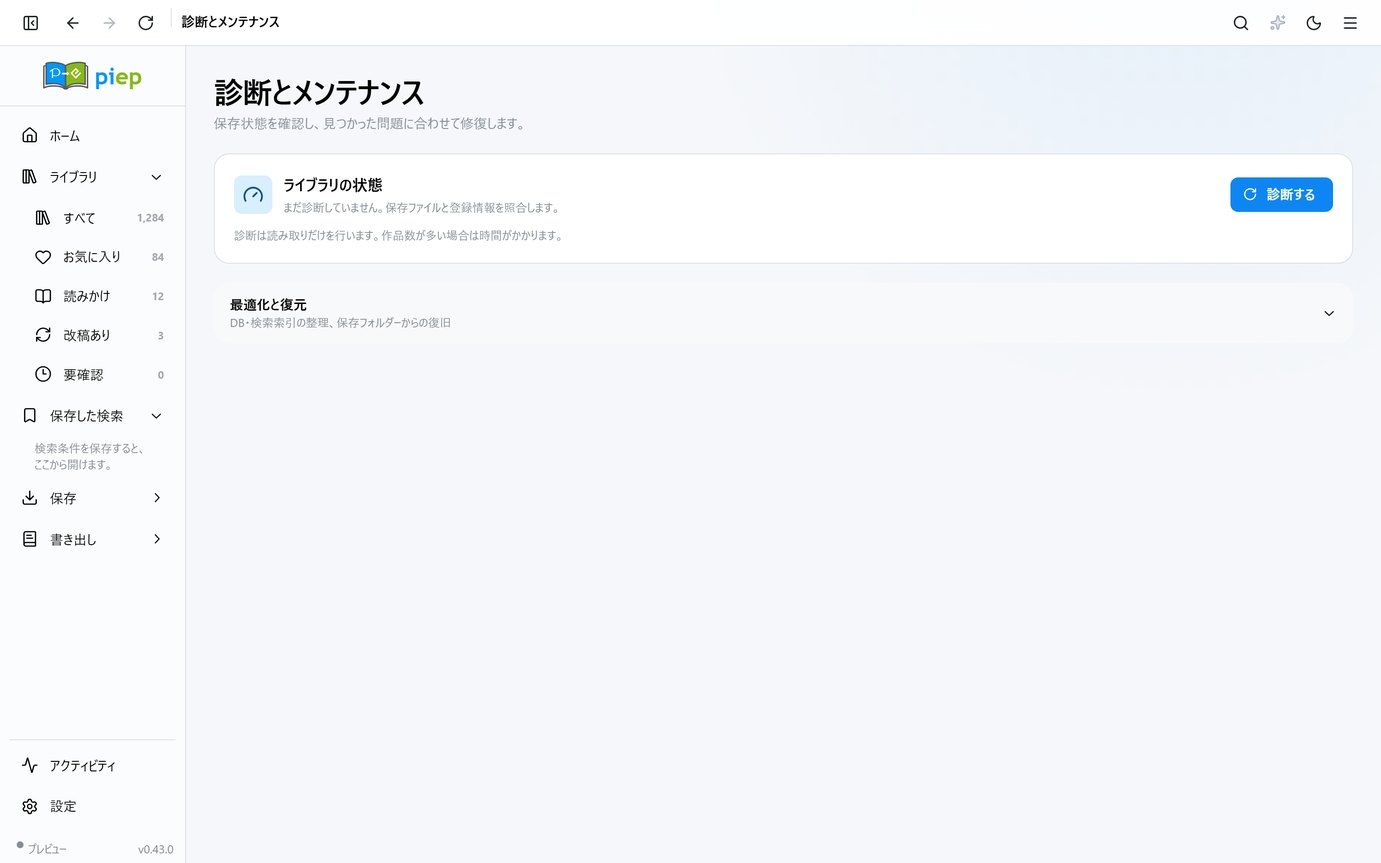
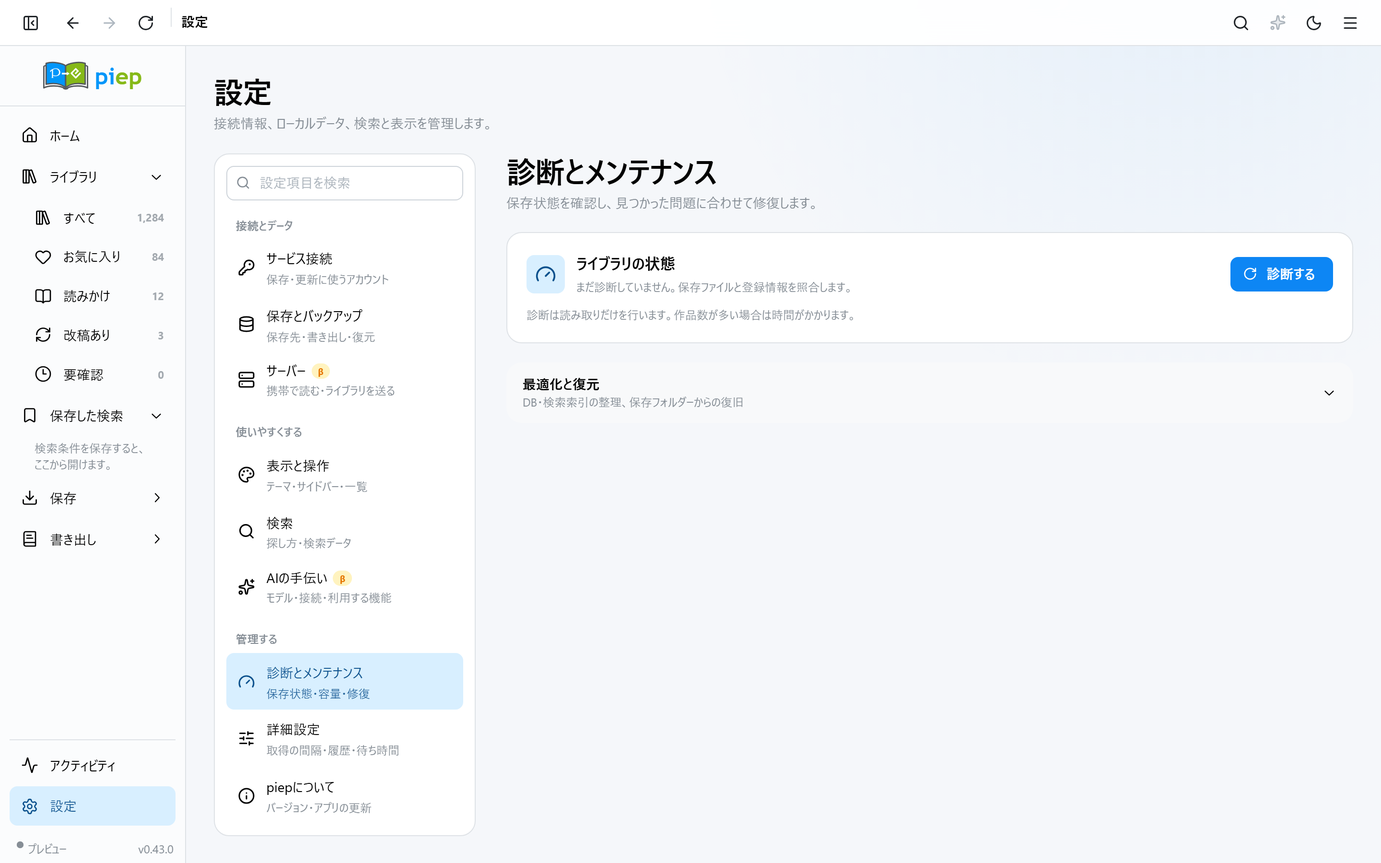
診断の画面は設定の中だけにし、更新の設定を読むだけの口を消す
同じ診断を独立した道と設定の中の二通りで出し、管理画面は状態の口から
読める値を別の GET でも返していた。利用者の了承を得て一つにまとめた。
視覚の基準と案内書の画像は設定の中の診断で撮る。

diff --git a/src/features/diagnostics/DiagnosticsPage.tsx b/src/features/diagnostics/DiagnosticsPage.tsx
@@ -25,7 +25,6 @@ import { Icons, IconSize } from "@/lib/icons";
 import { ErrorState } from "@/components/AsyncState";
 import { JobProgress } from "@/components/JobProgress";
 import { PageHeader } from "@/components/PageHeader";
-import { RuntimeNotice } from "@/components/RuntimeNotice";
 import { useAppNavigate } from "@/app/router";
 import { requestOperationCancel, startOperation, type OperationController } from "@/features/jobs/operationJobs";
 import { errorMessage, formatBytes, formatNumber } from "@/lib/format";
@@ -146,7 +145,7 @@ function useElapsedSeconds(active: boolean, startedAt?: number) {
  * app's own housekeeping rather than about the works, so settings is where it
  * belongs - but the route stays valid for anything already pointing at it.
  */
-export default function DiagnosticsPage({ embedded = false, previewData = previewDiagnostics }: { embedded?: boolean; previewData?: LibraryDiagnostics } = {}) {
+export default function DiagnosticsPage({ previewData = previewDiagnostics }: { previewData?: LibraryDiagnostics } = {}) {
   const runtime = isTauriRuntime();
   const navigate = useAppNavigate();
   const queryClient = useQueryClient();
@@ -314,10 +313,9 @@ export default function DiagnosticsPage({ embedded = false, previewData = previe
   });
   };
 
-  return <div className={embedded ? "diagnostics-page" : "page page--contained diagnostics-page"}>
+  return <div className="diagnostics-page">
     <PageHeader title="診断とメンテナンス" description="保存状態を確認し、見つかった問題に合わせて修復します。" />
     {/* Settings already carries one at the top of the screen. */}
-    {!embedded && <RuntimeNotice />}
 
     {runtime && <ShelfDiagnosticsSection runtime={runtime} busy={profileRunning} />}
     {legacyView && <Card p="lg" mt="lg">

diff --git a/src/features/settings/SettingsPage.tsx b/src/features/settings/SettingsPage.tsx
@@ -349,7 +349,7 @@ export default function SettingsPage() {
           {section === "server" && <ServerSection runtime={runtime} />}
           {section === "search" && (index.isLoading ? <LoadingState label="検索インデックスを確認しています" /> : index.error ? <ErrorState error={index.error} retry={() => index.refetch()} /> : <SearchSection status={index.data} rebuild={rebuild} runtime={runtime} rebuilding={rebuildMutation.isPending || rebuild?.status === "running"} start={(includeSemantic) => startRebuild(includeSemantic)} cancel={() => { if (rebuildOperationRef.current) { void requestOperationCancel(rebuildOperationRef.current.id); return; } if (rebuild) reportJobAction(cancelSearchRebuildIndex(rebuild.jobId), "索引の作り直しを中止できません"); }} />)}
           {section === "assist" && <AssistSection />}
-          {section === "diagnostics" && <DiagnosticsPage embedded />}
+          {section === "diagnostics" && <DiagnosticsPage />}
           {section === "advanced" && <AdvancedSection />}
           {section === "appearance" && <AppearanceSection colorScheme={colorScheme} setColorScheme={setColorScheme} />}
           {section === "about" && <AboutSection runtime={runtime} />}

diff --git a/src/App.tsx b/src/App.tsx
@@ -29,7 +29,6 @@ const EpubPage = lazy(() => import("@/features/epub/EpubPage"));
 const TemplateStudioPage = lazy(() => import("@/features/epub/TemplateStudioPage"));
 const UpdatesPage = lazy(() => import("@/features/updates/UpdatesPage"));
 const OperationsPage = lazy(() => import("@/features/jobs/OperationsPage"));
-const DiagnosticsPage = lazy(() => import("@/features/diagnostics/DiagnosticsPage"));
 const SettingsPage = lazy(() => import("@/features/settings/SettingsPage"));
 
 function RouteFallback() {
@@ -51,7 +50,6 @@ function CurrentRoute() {
   if (pathname === "/epub/templates") return <TemplateStudioPage />;
   if (pathname === "/updates") return <UpdatesPage />;
   if (pathname === "/operations") return <OperationsPage />;
-  if (pathname === "/diagnostics") return <DiagnosticsPage />;
   if (pathname === "/settings") return <SettingsPage />;
   return <DashboardPage />;
 }

diff --git a/e2e/visual-regression.spec.ts b/e2e/visual-regression.spec.ts
@@ -129,7 +129,7 @@ test("phone collection list keeps metadata and actions inside each row", async (
 test("critical workspaces keep a stable layout", async ({ page }, testInfo) => {
   test.skip(!testInfo.project.name.endsWith("100dpi"), "Route matrix runs once per size/theme; DPI scaling is covered by the library shell matrix");
   const routes = [
-    ["diagnostics", "/#/diagnostics", "診断とメンテナンス"],
+    ["settings-diagnostics", "/#/settings?section=diagnostics", "診断とメンテナンス"],
     ["operations", "/#/operations", "操作履歴"],
     ["save", "/#/save/pixiv", "Webから保存"],
     ["reader", "/#/reader/101", "雨上がりの図書室で"],

diff --git a/src/app/AppFrame.tsx b/src/app/AppFrame.tsx
@@ -293,7 +293,6 @@ export function AppFrame({ children }: { children: ReactNode }) {
     if (location.pathname.startsWith("/epub")) return "EPUB";
     if (location.pathname.startsWith("/updates")) return "新作・改稿";
     if (location.pathname.startsWith("/operations")) return "操作履歴";
-    if (location.pathname.startsWith("/diagnostics")) return "診断とメンテナンス";
     if (location.pathname.startsWith("/settings")) return "設定";
     return "piep";
   }, [location.pathname]);

diff --git a/e2e/readme-shots.spec.ts b/e2e/readme-shots.spec.ts
@@ -31,7 +31,7 @@ const shots: ReadonlyArray<
   ["editor", "/#/editor/101", "雨上がりの図書室で", ["light"]],
   ["updates", "/#/updates", "新作・改稿", ["light"]],
   ["epub", "/#/epub", "EPUB書き出し", ["light"]],
-  ["diagnostics", "/#/diagnostics", "診断とメンテナンス", ["light"]],
+  ["diagnostics", "/#/settings?section=diagnostics", "診断とメンテナンス", ["light"]],
   ["settings", "/#/settings?section=appearance", "表示と操作", ["light"]],
 ];
 

diff --git a/src/features/diagnostics/ShelfDiagnostics.test.tsx b/src/features/diagnostics/ShelfDiagnostics.test.tsx
@@ -54,7 +54,7 @@ function view() {
     <MantineProvider>
       <ModalsProvider>
         <QueryClientProvider client={client}>
-          <AppRouter><DiagnosticsPage embedded /></AppRouter>
+          <AppRouter><DiagnosticsPage /></AppRouter>
         </QueryClientProvider>
       </ModalsProvider>
     </MantineProvider>,

diff --git a/src-tauri/src/server/http/admin_web.rs b/src-tauri/src/server/http/admin_web.rs
@@ -1148,18 +1148,6 @@ fn controller(ctx: &ServerContext) -> Result<&Arc<UpdateController>, ApiError> {
     ))
 }
 
-async fn get_update_settings(
-    State(ctx): State<Ctx>,
-    headers: AdminHeaders,
-) -> Result<Json<serde_json::Value>, ApiError> {
-    require_admin(&ctx, &headers)?;
-    let status = controller(&ctx)?.status();
-    Ok(Json(serde_json::json!({
-        "auto": status.auto,
-        "window": status.window,
-    })))
-}
-
 #[derive(Deserialize)]
 #[serde(rename_all = "camelCase", deny_unknown_fields)]
 struct UpdateSettingsRequest {
@@ -1627,10 +1615,7 @@ pub(super) fn api_routes() -> Router<Ctx> {
         .route("/api/admin/password", put(change_password))
         .route("/api/admin/sessions", get(list_sessions))
         .route("/api/admin/sessions/{id}", delete(end_session))
-        .route(
-            "/api/admin/settings/update",
-            get(get_update_settings).put(put_update_settings),
-        )
+        .route("/api/admin/settings/update", put(put_update_settings))
         .route("/api/admin/settings/server-name", put(put_server_name))
         .route("/api/admin/update/check", post(update_check))
         .route("/api/admin/update/history", get(update_history))

diff --git a/docs/audit/2026-11-25-features.md b/docs/audit/2026-11-25-features.md
@@ -251,31 +251,31 @@
 | HTTP | `PUT /api/admin/shelf/shipments/{id}/chunks/{chunk}` | `src-tauri/src/server/http.rs:308` | デスクトップの棚送信 → `src-tauri/src/server/shelf_send.rs:351` → `src-tauri/src/server/shelf_send.rs:121` | 正 異 重 並 中 端 | 別の口から（棚送信）（`src-tauri/src/server/shelf_send.rs:351`） | 確認済み |
 | HTTP | `POST /api/admin/shelf/shipments/{id}/commit` | `src-tauri/src/server/http.rs:314` | デスクトップの棚送信 → 確定要求 `src-tauri/src/server/shelf_send.rs:367` | 正 異 欠 中 端 | 別の口から（棚送信）（`src-tauri/src/server/shelf_send.rs:367`） | 確認済み |
 | HTTP | `PUT /api/admin/devices/{id}/shelf` | `src-tauri/src/server/http.rs:318` | デスクトップの端末別の棚の許可 → `src-tauri/src/server/desktop.rs:534` → `src-tauri/src/server/sync_send.rs:338` | 正 異 端 | 別の口から（棚の許可 IPC）（`src-tauri/src/server/desktop.rs:534`） | 確認済み |
-| HTTP | `POST /api/admin/tickets` | `src-tauri/src/server/http/admin_web.rs:1626` | デスクトップの管理画面を開く操作 → `src-tauri/src/server/desktop.rs:491` → `src-tauri/src/server/sync_send.rs:315` | 正 異 端 | 別の口から（管理リンク発行 IPC）（`src-tauri/src/server/desktop.rs:491`） | 確認済み |
-| HTTP | `PUT /api/admin/password` | `src-tauri/src/server/http/admin_web.rs:1627` | 管理画面 → `src/admin/pages/AccountPage.tsx:32` → `src/admin/api.ts:205` | 正 異 端 | 画面から（`src/admin/pages/AccountPage.tsx:32`） | 確認済み |
-| HTTP | `GET /api/admin/sessions` | `src-tauri/src/server/http/admin_web.rs:1628` | 管理画面のログイン一覧 → `src/admin/pages/AccountPage.tsx:96` → `src/admin/api.ts:206` | 正 異 欠 端 | 自動（ページ表示・30 秒ごと）（`src/admin/pages/AccountPage.tsx:96`） | 確認済み |
-| HTTP | `DELETE /api/admin/sessions/{id}` | `src-tauri/src/server/http/admin_web.rs:1629` | 管理画面 → `src/admin/pages/AccountPage.tsx:99` → `src/admin/api.ts:207` | 正 異 端 | 画面から（`src/admin/pages/AccountPage.tsx:99`） | 確認済み |
-| HTTP | `GET,PUT /api/admin/settings/update` | `src-tauri/src/server/http/admin_web.rs:1630` | PUT は管理画面 → `src/admin/pages/UpdatesPage.tsx:66` → `src/admin/api.ts:203`；GET は登録 `src-tauri/src/server/http/admin_web.rs:1631` と受信処理 `src-tauri/src/server/http/admin_web.rs:1151` まで。画面の読み取りは状態応答 `src/admin/pages/UpdatesPage.tsx:52` | 正 異 | 画面から（PUT、`src/admin/pages/UpdatesPage.tsx:66`） | 確認済み |
-| HTTP | `PUT /api/admin/settings/server-name` | `src-tauri/src/server/http/admin_web.rs:1634` | 管理画面 → `src/admin/pages/SettingsPage.tsx:19` → `src/admin/api.ts:204` | 正 異 | 画面から（`src/admin/pages/SettingsPage.tsx:19`） | 確認済み |
-| HTTP | `POST /api/admin/update/check` | `src-tauri/src/server/http/admin_web.rs:1635` | 管理画面 → `src/admin/pages/UpdatesPage.tsx:105` → `src/admin/api.ts:198`；デスクトップ → `src-tauri/src/server/desktop.rs:473` | 正 異 並 | 別の口から（管理画面・更新確認 IPC）（`src/admin/pages/UpdatesPage.tsx:105`） | 確認済み |
-| HTTP | `GET /api/admin/update/history` | `src-tauri/src/server/http/admin_web.rs:1636` | 管理画面 → `src/admin/pages/UpdatesPage.tsx:98` → `src/admin/api.ts:202` | 正 異 欠 再 | 画面から（`src/admin/pages/UpdatesPage.tsx:98`） | 確認済み |
-| HTTP | `POST /api/admin/update/retry` | `src-tauri/src/server/http/admin_web.rs:1637` | 管理画面 → `src/admin/pages/UpdatesPage.tsx:124` → `src/admin/api.ts:200` | 正 異 復 | 画面から（`src/admin/pages/UpdatesPage.tsx:124`） | 確認済み |
-| HTTP | `POST /api/admin/update/rollback` | `src-tauri/src/server/http/admin_web.rs:1638` | 管理画面 → `src/admin/pages/UpdatesPage.tsx:138` → `src/admin/api.ts:201` | 正 異 再 復 | 画面から（`src/admin/pages/UpdatesPage.tsx:138`） | 確認済み |
-| HTTP | `GET /api/admin/audit` | `src-tauri/src/server/http/admin_web.rs:1639` | 管理画面の記録 → `src/admin/pages/RecordsPage.tsx:38` → `src/admin/api.ts:221`；概要 → `src/admin/pages/OverviewPage.tsx:19` | 正 異 欠 | 画面から（`src/admin/pages/RecordsPage.tsx:38`） | 確認済み |
-| HTTP | `GET /api/admin/storage` | `src-tauri/src/server/http/admin_web.rs:1640` | 管理画面の棚 → `src/admin/pages/LibraryPage.tsx:9` → `src/admin/api.ts:211`；概要 → `src/admin/pages/OverviewPage.tsx:18` | 正 異 欠 | 画面から（`src/admin/pages/LibraryPage.tsx:9`） | 確認済み |
-| HTTP | `GET,PUT /api/admin/connection` | `src-tauri/src/server/http/admin_web.rs:1641` | 管理画面 → 取得 `src/admin/pages/SettingsPage.tsx:285` → `src/admin/api.ts:212` ／保存 `src/admin/pages/SettingsPage.tsx:147` → `src/admin/api.ts:213` | 正 異 再 復 | 画面から（`src/admin/pages/SettingsPage.tsx:285`） | 確認済み |
-| HTTP | `POST /api/admin/restart` | `src-tauri/src/server/http/admin_web.rs:1642` | 管理画面 → `src/admin/pages/SettingsPage.tsx:139` → `src/admin/api.ts:214` | 正 異 再 復 | 画面から（`src/admin/pages/SettingsPage.tsx:139`） | 確認済み |
-| HTTP | `POST /api/admin/web/reauth` | `src-tauri/src/server/http/admin_web.rs:1648` | 管理画面の操作前の再認証 → `src/admin/shared.tsx:131` → `src/admin/api.ts:195` | 正 異 | 画面から（`src/admin/shared.tsx:131`） | 確認済み |
-| HTTP | `POST /api/admin/web/disable` | `src-tauri/src/server/http/admin_web.rs:1649` | 管理画面 → `src/admin/pages/SettingsPage.tsx:300` → `src/admin/api.ts:196` | 正 異 端 | 画面から（`src/admin/pages/SettingsPage.tsx:300`） | 確認済み |
-| HTTP | `GET /admin` | `src-tauri/src/server/http/admin_web.rs:1656` | ブラウザーで末尾のスラッシュなしの URL を直接開く → `src-tauri/src/server/http/admin_web.rs:1656` → /admin/ | 正 | 別の口から（ブラウザーの URL 入力）（`src-tauri/src/server/http/admin_web.rs:1656`） | 確認済み |
-| HTTP | `GET /admin/` | `src-tauri/src/server/http/admin_web.rs:1657` | デスクトップの管理リンク `src-tauri/src/server/desktop.rs:498` または CLI の初回設定リンク `src-tauri/src/server/standalone.rs:853` → ブラウザー → `src-tauri/src/server/http/admin_web.rs:1612` | 正 異 欠 | 別の口から（管理リンクをブラウザーで開く）（`src-tauri/src/server/desktop.rs:498`） | 確認済み |
-| HTTP | `GET /admin/{*path}` | `src-tauri/src/server/http/admin_web.rs:1658` | 管理画面の HTML を開いたブラウザー → `vite.admin.config.ts:10` の資産 URL → `src-tauri/src/server/http/admin_web.rs:1616` | 正 異 欠 | 自動（ブラウザーの管理画面資産読み込み）（`vite.admin.config.ts:10`） | 確認済み |
-| HTTP | `GET /api/admin/web/state` | `src-tauri/src/server/http/admin_web.rs:1659` | 管理画面の入口 → `src/admin/AdminApp.tsx:169` → `src/admin/api.ts:189` | 正 異 欠 | 自動（管理画面を開いたとき）（`src/admin/AdminApp.tsx:169`） | 確認済み |
-| HTTP | `POST /api/admin/web/login` | `src-tauri/src/server/http/admin_web.rs:1660` | 管理画面 → `src/admin/Entry.tsx:129` → `src/admin/api.ts:190` | 正 異 重 | 画面から（`src/admin/Entry.tsx:129`） | 確認済み |
-| HTTP | `POST /api/admin/web/ticket-info` | `src-tauri/src/server/http/admin_web.rs:1661` | 管理リンクの券を検査 → `src/admin/Entry.tsx:210` → `src/admin/api.ts:191` | 正 異 欠 | 自動（管理リンクを開いたとき）（`src/admin/Entry.tsx:210`） | 確認済み |
-| HTTP | `POST /api/admin/web/ticket` | `src-tauri/src/server/http/admin_web.rs:1662` | 管理リンクからのログイン → `src/admin/Entry.tsx:216` → `src/admin/api.ts:192` | 正 異 重 | 自動（券確認後）（`src/admin/Entry.tsx:216`） | 確認済み |
-| HTTP | `POST /api/admin/web/setup` | `src-tauri/src/server/http/admin_web.rs:1663` | 管理画面の初回設定・再設定 → `src/admin/Entry.tsx:75` → `src/admin/api.ts:193` | 正 異 重 端 | 画面から（`src/admin/Entry.tsx:75`） | 確認済み |
-| HTTP | `POST /api/admin/web/logout` | `src-tauri/src/server/http/admin_web.rs:1664` | 管理画面 → `src/admin/AdminApp.tsx:99` → `src/admin/api.ts:194` | 正 異 | 画面から（`src/admin/AdminApp.tsx:99`） | 確認済み |
+| HTTP | `POST /api/admin/tickets` | `src-tauri/src/server/http/admin_web.rs:1614` | デスクトップの管理画面を開く操作 → `src-tauri/src/server/desktop.rs:491` → `src-tauri/src/server/sync_send.rs:315` | 正 異 端 | 別の口から（管理リンク発行 IPC）（`src-tauri/src/server/desktop.rs:491`） | 確認済み |
+| HTTP | `PUT /api/admin/password` | `src-tauri/src/server/http/admin_web.rs:1615` | 管理画面 → `src/admin/pages/AccountPage.tsx:32` → `src/admin/api.ts:205` | 正 異 端 | 画面から（`src/admin/pages/AccountPage.tsx:32`） | 確認済み |
+| HTTP | `GET /api/admin/sessions` | `src-tauri/src/server/http/admin_web.rs:1616` | 管理画面のログイン一覧 → `src/admin/pages/AccountPage.tsx:96` → `src/admin/api.ts:206` | 正 異 欠 端 | 自動（ページ表示・30 秒ごと）（`src/admin/pages/AccountPage.tsx:96`） | 確認済み |
+| HTTP | `DELETE /api/admin/sessions/{id}` | `src-tauri/src/server/http/admin_web.rs:1617` | 管理画面 → `src/admin/pages/AccountPage.tsx:99` → `src/admin/api.ts:207` | 正 異 端 | 画面から（`src/admin/pages/AccountPage.tsx:99`） | 確認済み |
+| HTTP | `PUT /api/admin/settings/update` | `src-tauri/src/server/http/admin_web.rs:1618` | 管理画面「更新」→ `src/admin/pages/UpdatesPage.tsx:66` → `src/admin/api.ts:203` → HTTP。値の読み出しは `GET /api/admin/status` の `update` | 正 異 | 画面から（`src/admin/pages/UpdatesPage.tsx:66`） | 確認済み |
+| HTTP | `PUT /api/admin/settings/server-name` | `src-tauri/src/server/http/admin_web.rs:1619` | 管理画面 → `src/admin/pages/SettingsPage.tsx:19` → `src/admin/api.ts:204` | 正 異 | 画面から（`src/admin/pages/SettingsPage.tsx:19`） | 確認済み |
+| HTTP | `POST /api/admin/update/check` | `src-tauri/src/server/http/admin_web.rs:1620` | 管理画面 → `src/admin/pages/UpdatesPage.tsx:105` → `src/admin/api.ts:198`；デスクトップ → `src-tauri/src/server/desktop.rs:473` | 正 異 並 | 別の口から（管理画面・更新確認 IPC）（`src/admin/pages/UpdatesPage.tsx:105`） | 確認済み |
+| HTTP | `GET /api/admin/update/history` | `src-tauri/src/server/http/admin_web.rs:1621` | 管理画面 → `src/admin/pages/UpdatesPage.tsx:98` → `src/admin/api.ts:202` | 正 異 欠 再 | 画面から（`src/admin/pages/UpdatesPage.tsx:98`） | 確認済み |
+| HTTP | `POST /api/admin/update/retry` | `src-tauri/src/server/http/admin_web.rs:1622` | 管理画面 → `src/admin/pages/UpdatesPage.tsx:124` → `src/admin/api.ts:200` | 正 異 復 | 画面から（`src/admin/pages/UpdatesPage.tsx:124`） | 確認済み |
+| HTTP | `POST /api/admin/update/rollback` | `src-tauri/src/server/http/admin_web.rs:1623` | 管理画面 → `src/admin/pages/UpdatesPage.tsx:138` → `src/admin/api.ts:201` | 正 異 再 復 | 画面から（`src/admin/pages/UpdatesPage.tsx:138`） | 確認済み |
+| HTTP | `GET /api/admin/audit` | `src-tauri/src/server/http/admin_web.rs:1624` | 管理画面の記録 → `src/admin/pages/RecordsPage.tsx:38` → `src/admin/api.ts:221`；概要 → `src/admin/pages/OverviewPage.tsx:19` | 正 異 欠 | 画面から（`src/admin/pages/RecordsPage.tsx:38`） | 確認済み |
+| HTTP | `GET /api/admin/storage` | `src-tauri/src/server/http/admin_web.rs:1625` | 管理画面の棚 → `src/admin/pages/LibraryPage.tsx:9` → `src/admin/api.ts:211`；概要 → `src/admin/pages/OverviewPage.tsx:18` | 正 異 欠 | 画面から（`src/admin/pages/LibraryPage.tsx:9`） | 確認済み |
+| HTTP | `GET,PUT /api/admin/connection` | `src-tauri/src/server/http/admin_web.rs:1626` | 管理画面 → 取得 `src/admin/pages/SettingsPage.tsx:285` → `src/admin/api.ts:212` ／保存 `src/admin/pages/SettingsPage.tsx:147` → `src/admin/api.ts:213` | 正 異 再 復 | 画面から（`src/admin/pages/SettingsPage.tsx:285`） | 確認済み |
+| HTTP | `POST /api/admin/restart` | `src-tauri/src/server/http/admin_web.rs:1627` | 管理画面 → `src/admin/pages/SettingsPage.tsx:139` → `src/admin/api.ts:214` | 正 異 再 復 | 画面から（`src/admin/pages/SettingsPage.tsx:139`） | 確認済み |
+| HTTP | `POST /api/admin/web/reauth` | `src-tauri/src/server/http/admin_web.rs:1633` | 管理画面の操作前の再認証 → `src/admin/shared.tsx:131` → `src/admin/api.ts:195` | 正 異 | 画面から（`src/admin/shared.tsx:131`） | 確認済み |
+| HTTP | `POST /api/admin/web/disable` | `src-tauri/src/server/http/admin_web.rs:1634` | 管理画面 → `src/admin/pages/SettingsPage.tsx:300` → `src/admin/api.ts:196` | 正 異 端 | 画面から（`src/admin/pages/SettingsPage.tsx:300`） | 確認済み |
+| HTTP | `GET /admin` | `src-tauri/src/server/http/admin_web.rs:1641` | ブラウザーで末尾のスラッシュなしの URL を直接開く → `src-tauri/src/server/http/admin_web.rs:1656` → /admin/ | 正 | 別の口から（ブラウザーの URL 入力）（`src-tauri/src/server/http/admin_web.rs:1656`） | 確認済み |
+| HTTP | `GET /admin/` | `src-tauri/src/server/http/admin_web.rs:1642` | デスクトップの管理リンク `src-tauri/src/server/desktop.rs:498` または CLI の初回設定リンク `src-tauri/src/server/standalone.rs:853` → ブラウザー → `src-tauri/src/server/http/admin_web.rs:1612` | 正 異 欠 | 別の口から（管理リンクをブラウザーで開く）（`src-tauri/src/server/desktop.rs:498`） | 確認済み |
+| HTTP | `GET /admin/{*path}` | `src-tauri/src/server/http/admin_web.rs:1643` | 管理画面の HTML を開いたブラウザー → `vite.admin.config.ts:10` の資産 URL → `src-tauri/src/server/http/admin_web.rs:1616` | 正 異 欠 | 自動（ブラウザーの管理画面資産読み込み）（`vite.admin.config.ts:10`） | 確認済み |
+| HTTP | `GET /api/admin/web/state` | `src-tauri/src/server/http/admin_web.rs:1644` | 管理画面の入口 → `src/admin/AdminApp.tsx:169` → `src/admin/api.ts:189` | 正 異 欠 | 自動（管理画面を開いたとき）（`src/admin/AdminApp.tsx:169`） | 確認済み |
+| HTTP | `POST /api/admin/web/login` | `src-tauri/src/server/http/admin_web.rs:1645` | 管理画面 → `src/admin/Entry.tsx:129` → `src/admin/api.ts:190` | 正 異 重 | 画面から（`src/admin/Entry.tsx:129`） | 確認済み |
+| HTTP | `POST /api/admin/web/ticket-info` | `src-tauri/src/server/http/admin_web.rs:1646` | 管理リンクの券を検査 → `src/admin/Entry.tsx:210` → `src/admin/api.ts:191` | 正 異 欠 | 自動（管理リンクを開いたとき）（`src/admin/Entry.tsx:210`） | 確認済み |
+| HTTP | `POST /api/admin/web/ticket` | `src-tauri/src/server/http/admin_web.rs:1647` | 管理リンクからのログイン → `src/admin/Entry.tsx:216` → `src/admin/api.ts:192` | 正 異 重 | 自動（券確認後）（`src/admin/Entry.tsx:216`） | 確認済み |
+| HTTP | `POST /api/admin/web/setup` | `src-tauri/src/server/http/admin_web.rs:1648` | 管理画面の初回設定・再設定 → `src/admin/Entry.tsx:75` → `src/admin/api.ts:193` | 正 異 重 端 | 画面から（`src/admin/Entry.tsx:75`） | 確認済み |
+| HTTP | `POST /api/admin/web/logout` | `src-tauri/src/server/http/admin_web.rs:1649` | 管理画面 → `src/admin/AdminApp.tsx:99` → `src/admin/api.ts:194` | 正 異 | 画面から（`src/admin/AdminApp.tsx:99`） | 確認済み |
 | HTTP | `GET /api/identity` | `src-tauri/src/server/reader/mod.rs:364` | Android の接続状態 IPC → `android/src-tauri/src/pc_client.rs:766` → `android/src-tauri/src/pc_client/shelf.rs:191`。棚識別を確認する経路も同ファイル `:179` | 正 異 欠 端 | 自動（接続・棚の確認）（`android/src-tauri/src/pc_client.rs:766`） | 確認済み |
 | HTTP | `GET /api/libraries/{library}/works` | `src-tauri/src/server/reader/mod.rs:365` | Android Rust の pc_works → `android/src-tauri/src/pc_client/shelf.rs:531` → HTTP。Android の画面から pc_works に到達しない。HTTP を直接呼ぶ試験は `src-tauri/src/server/reader/tests.rs:740` | 正 異 欠 端 | 試験だけ（`src-tauri/src/server/reader/tests.rs:740`。製品の送信実装は `android/src-tauri/src/pc_client/shelf.rs:531` まで） | 確認済み |
 | HTTP | `GET /api/libraries/{library}/works/lookup` | `src-tauri/src/server/reader/mod.rs:366` | Android の棚で作品を引く → `android/src/PcLibrary.tsx:134` → `android/src/shelf.ts:78` → `android/src-tauri/src/pc_client/shelf.rs:919` | 正 異 欠 端 | 別の口から（pc_lookup_work IPC）（`android/src/PcLibrary.tsx:134`） | 確認済み |
@@ -300,23 +300,22 @@
 | HTTP | `GET /api/libraries/{library}/entities/{entity}/views/{view_kind}/{view_id}/bundle` | `src-tauri/src/server/reader/mod.rs:385` | Android の読書 → `android/src-tauri/src/pc_client/shelf_reader.rs:183`、端末保存 → `android/src-tauri/src/pc_client/offline.rs:785`。両方とも `android/src-tauri/src/pc_client/shelf.rs:934` | 正 異 欠 端 | 別の口から（pc_open・端末保存 IPC）（`android/src-tauri/src/pc_client/shelf_reader.rs:183`） | 確認済み |
 | HTTP | `GET /api/libraries/{library}/entities/{entity}/views/{view_kind}/{view_id}/resources/{resource_kind}/manifest` | `src-tauri/src/server/reader/mod.rs:386` | 資産の照会試験 `src-tauri/src/server/reader/tests.rs:268` → `src-tauri/src/server/reader/mod.rs:643`。Android は bundle 内のファイル情報からチャンクを取得（`android/src-tauri/src/pc_client/shelf_reader.rs:253`） | 正 異 欠 | 試験だけ（`src-tauri/src/server/reader/tests.rs:268`） | 確認済み |
 | HTTP | `GET /api/libraries/{library}/entities/{entity}/views/{view_kind}/{view_id}/resources/{resource_kind}/files/{file}/chunks/{ordinal}` | `src-tauri/src/server/reader/mod.rs:387` | Android の本文・画像ファイル取得 → `android/src-tauri/src/pc_client/shelf_reader.rs:254` → `android/src-tauri/src/pc_client/shelf.rs:970` | 正 異 欠 並 中 端 | 別の口から（携帯の読書と端末保存）（`android/src-tauri/src/pc_client/shelf_reader.rs:254`） | 確認済み |
-| 画面（デスクトップ） | `/` | `src/App.tsx:41` | 起動時の既定ルート `src/app/router.tsx:58` またはナビのホーム `src/app/WorkspaceNav.tsx:206` → `src/App.tsx:41` → ホーム | 正 欠 再 | 自動（起動時）（`src/app/router.tsx:58`） | 確認済み |
-| 画面（デスクトップ） | `/collections/:collectionId?` | `src/App.tsx:46` | ライブラリのコレクションを保存 → `src/features/collections/CollectionsPanel.tsx:79` → `src/App.tsx:46` → コレクション | 正 異 欠 | 画面から（`src/features/collections/CollectionsPanel.tsx:79`） | 確認済み |
-| 画面（デスクトップ） | `/diagnostics` | `src/App.tsx:54` | 手入力のハッシュを読む `src/app/router.tsx:58` → `src/App.tsx:54` → 診断。製品内の移動先は `src/app/AppFrame.tsx:323` の設定内診断 | 正 異 | 別の口から（アプリのハッシュ・画面内リンクなし）（`src/app/router.tsx:58`） | 確認済み |
-| 画面（デスクトップ） | `/editor/:workId` | `src/App.tsx:48` | 作品詳細の編集 → `src/features/library/ShelfWorkPage.tsx:409` → `src/App.tsx:48` → 本文エディター | 正 異 欠 中 | 画面から（`src/features/library/ShelfWorkPage.tsx:409`） | 確認済み |
-| 画面（デスクトップ） | `/epub` | `src/App.tsx:50` | ナビの EPUB キュー → `src/app/WorkspaceNav.tsx:199` → `src/App.tsx:50` → EPUB 書き出し | 正 異 欠 中 | 画面から（`src/app/WorkspaceNav.tsx:199`） | 確認済み |
-| 画面（デスクトップ） | `/epub/templates` | `src/App.tsx:51` | ナビのテンプレート編集 → `src/app/WorkspaceNav.tsx:200` → `src/App.tsx:51` → テンプレートスタジオ | 正 異 欠 中 | 画面から（`src/app/WorkspaceNav.tsx:200`） | 確認済み |
-| 画面（デスクトップ） | `/library` | `src/App.tsx:42` | ナビの棚 → `src/app/WorkspaceNav.tsx:176` → `src/App.tsx:42` → ライブラリ | 正 異 欠 並 | 画面から（`src/app/WorkspaceNav.tsx:176`） | 確認済み |
-| 画面（デスクトップ） | `/operations` | `src/App.tsx:53` | ナビの処理の記録 → `src/app/WorkspaceNav.tsx:275` → `src/App.tsx:53` → 処理の記録 | 正 異 欠 中 再 | 画面から（`src/app/WorkspaceNav.tsx:275`） | 確認済み |
-| 画面（デスクトップ） | `/people/:source/:sourceKey` | `src/App.tsx:44` | 作品詳細の作者名 → `src/features/library/ShelfWorkPage.tsx:393` → `src/App.tsx:44` → 作者詳細 | 正 異 欠 | 画面から（`src/features/library/ShelfWorkPage.tsx:393`） | 確認済み |
-| 画面（デスクトップ） | `/reader/:workId` | `src/App.tsx:47` | 作品詳細の「読む」 → `src/features/library/ShelfWorkPage.tsx:408` → `src/App.tsx:47` → 読書 | 正 異 欠 復 | 画面から（`src/features/library/ShelfWorkPage.tsx:408`） | 確認済み |
-| 画面（デスクトップ） | `/save/:source?` | `src/App.tsx:49` | ホームのクイック保存 → `src/features/dashboard/DashboardPage.tsx:146` → `src/App.tsx:49` → 保存画面 | 正 異 欠 中 | 画面から（`src/features/dashboard/DashboardPage.tsx:146`） | 確認済み |
+| 画面（デスクトップ） | `/` | `src/App.tsx:40` | 起動時の既定ルート `src/app/router.tsx:58` またはナビのホーム `src/app/WorkspaceNav.tsx:206` → `src/App.tsx:41` → ホーム | 正 欠 再 | 自動（起動時）（`src/app/router.tsx:58`） | 確認済み |
+| 画面（デスクトップ） | `/collections/:collectionId?` | `src/App.tsx:45` | ライブラリのコレクションを保存 → `src/features/collections/CollectionsPanel.tsx:79` → `src/App.tsx:46` → コレクション | 正 異 欠 | 画面から（`src/features/collections/CollectionsPanel.tsx:79`） | 確認済み |
+| 画面（デスクトップ） | `/editor/:workId` | `src/App.tsx:47` | 作品詳細の編集 → `src/features/library/ShelfWorkPage.tsx:409` → `src/App.tsx:48` → 本文エディター | 正 異 欠 中 | 画面から（`src/features/library/ShelfWorkPage.tsx:409`） | 確認済み |
+| 画面（デスクトップ） | `/epub` | `src/App.tsx:49` | ナビの EPUB キュー → `src/app/WorkspaceNav.tsx:199` → `src/App.tsx:50` → EPUB 書き出し | 正 異 欠 中 | 画面から（`src/app/WorkspaceNav.tsx:199`） | 確認済み |
+| 画面（デスクトップ） | `/epub/templates` | `src/App.tsx:50` | ナビのテンプレート編集 → `src/app/WorkspaceNav.tsx:200` → `src/App.tsx:51` → テンプレートスタジオ | 正 異 欠 中 | 画面から（`src/app/WorkspaceNav.tsx:200`） | 確認済み |
+| 画面（デスクトップ） | `/library` | `src/App.tsx:41` | ナビの棚 → `src/app/WorkspaceNav.tsx:176` → `src/App.tsx:42` → ライブラリ | 正 異 欠 並 | 画面から（`src/app/WorkspaceNav.tsx:176`） | 確認済み |
+| 画面（デスクトップ） | `/operations` | `src/App.tsx:52` | ナビの処理の記録 → `src/app/WorkspaceNav.tsx:275` → `src/App.tsx:53` → 処理の記録 | 正 異 欠 中 再 | 画面から（`src/app/WorkspaceNav.tsx:275`） | 確認済み |
+| 画面（デスクトップ） | `/people/:source/:sourceKey` | `src/App.tsx:43` | 作品詳細の作者名 → `src/features/library/ShelfWorkPage.tsx:393` → `src/App.tsx:44` → 作者詳細 | 正 異 欠 | 画面から（`src/features/library/ShelfWorkPage.tsx:393`） | 確認済み |
+| 画面（デスクトップ） | `/reader/:workId` | `src/App.tsx:46` | 作品詳細の「読む」 → `src/features/library/ShelfWorkPage.tsx:408` → `src/App.tsx:47` → 読書 | 正 異 欠 復 | 画面から（`src/features/library/ShelfWorkPage.tsx:408`） | 確認済み |
+| 画面（デスクトップ） | `/save/:source?` | `src/App.tsx:48` | ホームのクイック保存 → `src/features/dashboard/DashboardPage.tsx:146` → `src/App.tsx:49` → 保存画面 | 正 異 欠 中 | 画面から（`src/features/dashboard/DashboardPage.tsx:146`） | 確認済み |
 | 画面（デスクトップ） | `/save/fanbox` | `src/app/WorkspaceNav.tsx:195` | ナビの取得元別保存 → `src/app/WorkspaceNav.tsx:195` → `src/App.tsx:49` → 保存画面 | 正 異 欠 中 | 画面から（`src/app/WorkspaceNav.tsx:195`） | 確認済み |
 | 画面（デスクトップ） | `/save/pixiv` | `src/app/WorkspaceNav.tsx:194` | ナビの取得元別保存 → `src/app/WorkspaceNav.tsx:194` → `src/App.tsx:49` → 保存画面 | 正 異 欠 中 | 画面から（`src/app/WorkspaceNav.tsx:194`） | 確認済み |
-| 画面（デスクトップ） | `/series/:source/:sourceKey` | `src/App.tsx:45` | 作品詳細のシリーズ名 → `src/features/library/ShelfWorkPage.tsx:380` → `src/App.tsx:45` → シリーズ詳細 | 正 異 欠 | 画面から（`src/features/library/ShelfWorkPage.tsx:380`） | 確認済み |
-| 画面（デスクトップ） | `/settings` | `src/App.tsx:55` | ナビの設定 → `src/app/WorkspaceNav.tsx:277` → `src/App.tsx:55` → 設定 | 正 異 欠 | 画面から（`src/app/WorkspaceNav.tsx:277`） | 確認済み |
-| 画面（デスクトップ） | `/updates` | `src/App.tsx:52` | ナビの新作・改稿 → `src/app/WorkspaceNav.tsx:196` → `src/App.tsx:52` → 新作・改稿 | 正 異 欠 中 再 復 | 画面から（`src/app/WorkspaceNav.tsx:196`） | 確認済み |
-| 画面（デスクトップ） | `/works/:workId` | `src/App.tsx:43` | 作品カードの詳細 → `src/components/WorkCard.tsx:496` → `src/App.tsx:43` → 作品詳細 | 正 異 欠 | 画面から（`src/components/WorkCard.tsx:496`） | 確認済み |
+| 画面（デスクトップ） | `/series/:source/:sourceKey` | `src/App.tsx:44` | 作品詳細のシリーズ名 → `src/features/library/ShelfWorkPage.tsx:380` → `src/App.tsx:45` → シリーズ詳細 | 正 異 欠 | 画面から（`src/features/library/ShelfWorkPage.tsx:380`） | 確認済み |
+| 画面（デスクトップ） | `/settings` | `src/App.tsx:53` | ナビの設定 → `src/app/WorkspaceNav.tsx:277` → `src/App.tsx:55` → 設定 | 正 異 欠 | 画面から（`src/app/WorkspaceNav.tsx:277`） | 確認済み |
+| 画面（デスクトップ） | `/updates` | `src/App.tsx:51` | ナビの新作・改稿 → `src/app/WorkspaceNav.tsx:196` → `src/App.tsx:52` → 新作・改稿 | 正 異 欠 中 再 復 | 画面から（`src/app/WorkspaceNav.tsx:196`） | 確認済み |
+| 画面（デスクトップ） | `/works/:workId` | `src/App.tsx:42` | 作品カードの詳細 → `src/components/WorkCard.tsx:496` → `src/App.tsx:43` → 作品詳細 | 正 異 欠 | 画面から（`src/components/WorkCard.tsx:496`） | 確認済み |
 | 画面（携帯） | `library` | `android/src/appHistory.tsx:10` | 携帯の初期ページ `android/src/appHistory.tsx:43` または下部ナビ → `android/src/App.tsx:435` → :613 → ライブラリ | 正 異 欠 再 オ 端 | 自動（起動時）（`android/src/appHistory.tsx:43`） | 確認済み |
 | 画面（携帯） | `entity` | `android/src/appHistory.tsx:22` | 携帯の作品詳細の作者・シリーズを開く → `android/src/WorkDetail.tsx:107` ／ `android/src/WorkDetail.tsx:115` → `android/src/appHistory.tsx:210` → :45 → `android/src/App.tsx:614` → 作者・シリーズ詳細 | 正 異 欠 オ 端 | 画面から（`android/src/WorkDetail.tsx:107`） | 確認済み |
 | 画面（携帯） | `offline` | `android/src/appHistory.tsx:37` | 下部ナビ `android/src/App.tsx:632` → :442 → :615 → オフラインの棚 | 正 異 欠 復 オ | 画面から（`android/src/App.tsx:632`） | 確認済み |
